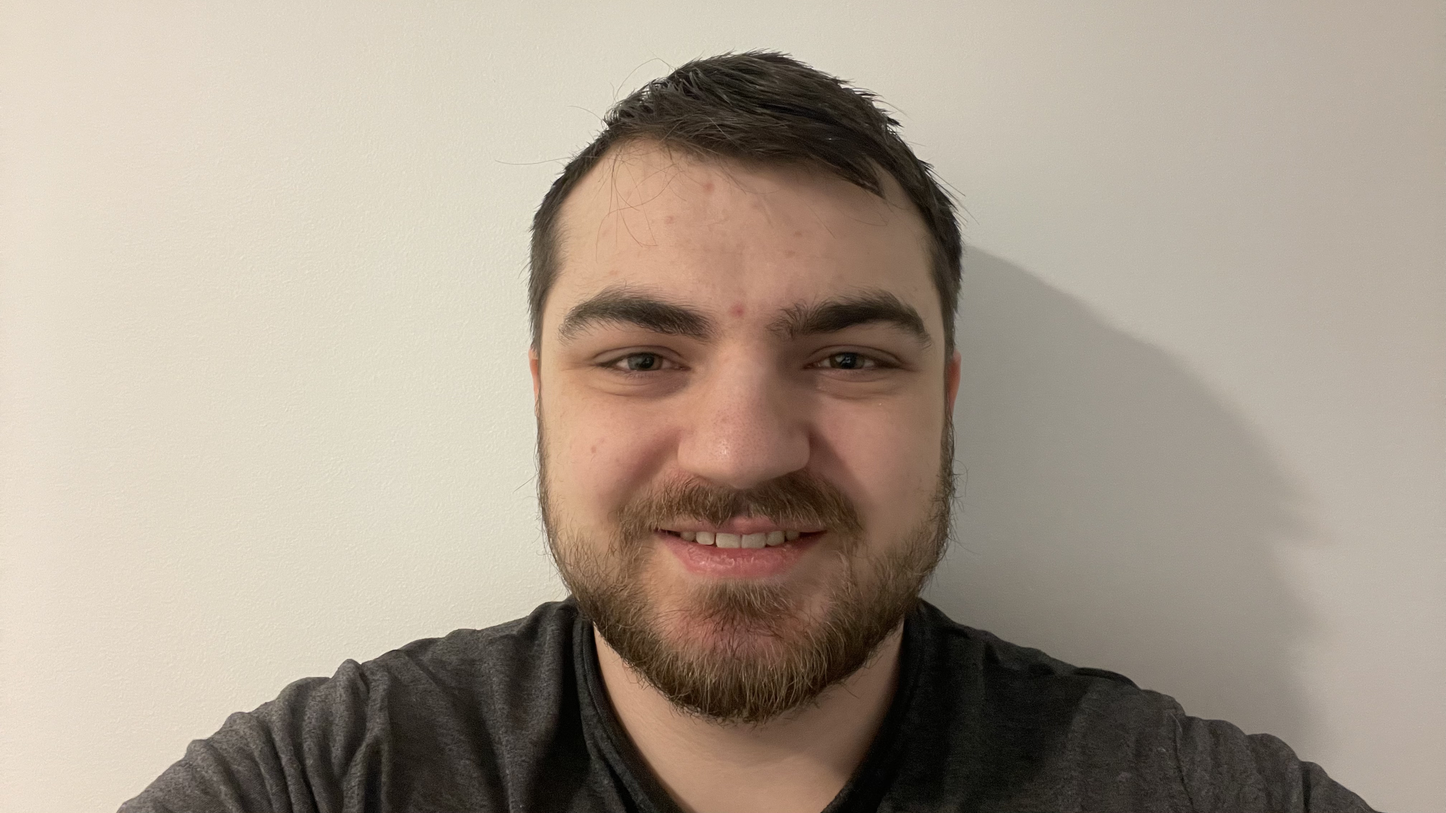
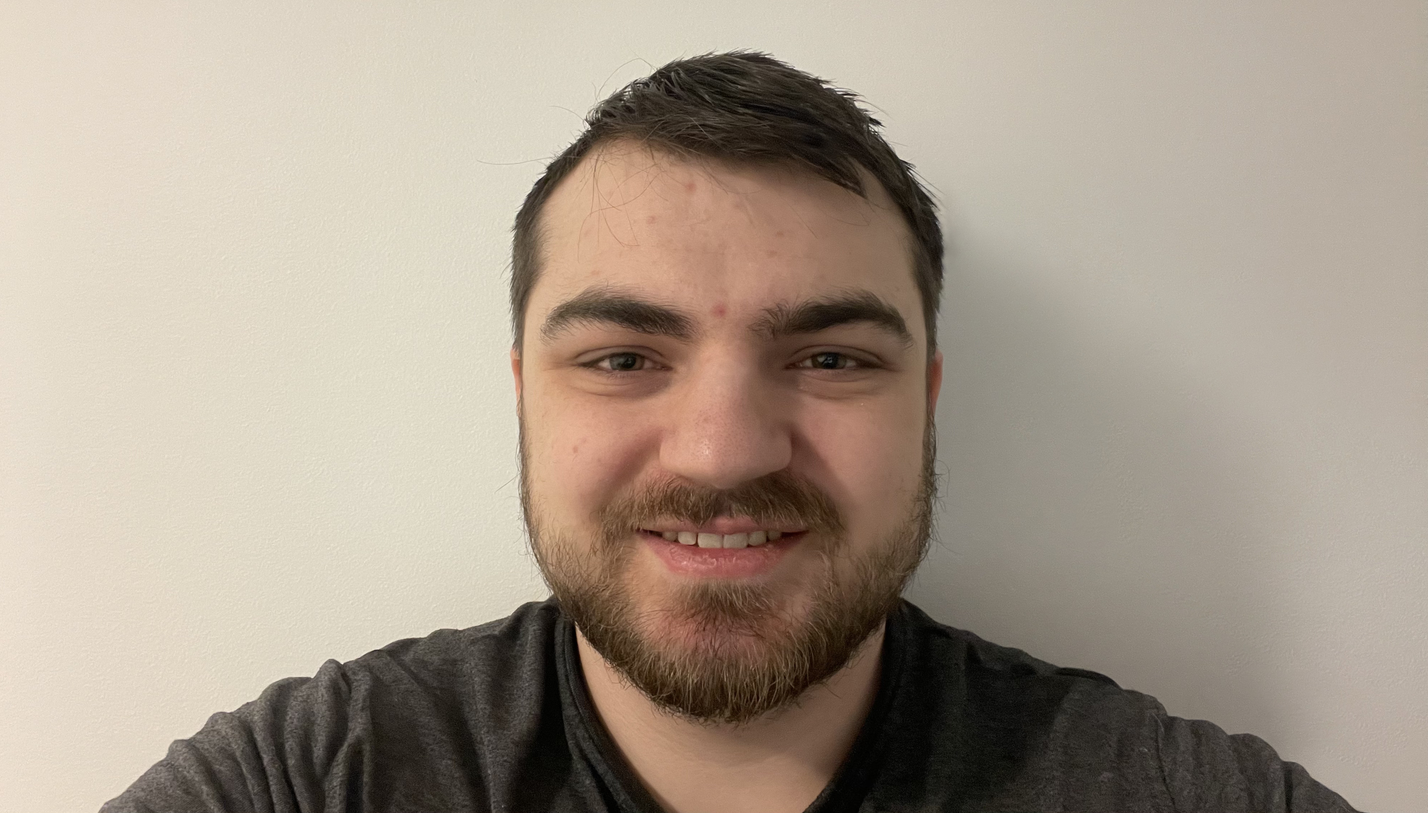
changed image to an edit with smoothed shadows, closer to center subject-matter

diff --git a/Portfolio.html b/Portfolio.html
@@ -2,7 +2,7 @@
 <html lang="en">
 
 <head>
-  <meta charset="utf-8"/>
+  <meta charset="UTF-8"/>
   <meta name="viewport" content="width=device-width, initial-scale=1.0"/>
   <title>Portfolio</title>
   <link type="text/css" rel="stylesheet" href="./Assets/CSS/reset.css"/>
@@ -47,8 +47,10 @@
 
       <div class="ancestor" id="projects">
         <div class="column">
+          <a href="https://jgriffith97.github.io/Module-1-Challenge/">
           <img class="screenshot" src="./Assets/Images/Screenshot-edit.png" alt="Screenshot of the Module 1 Challenge code refactor"/>
           <!-- I'm using this as kind of a 'proof of function' placeholder -->
+          </a>
         </div>
 
         <div class="adaptive">

diff --git a/Assets/CSS/style.css b/Assets/CSS/style.css
@@ -316,7 +316,7 @@ footer {
     display: flex;
     flex-direction: row;
     justify-content: center;
-    padding: 0 15% 0 15%;
+    padding: 0 15% 20px 15%;
     background-color: lightblue;
   }
 
